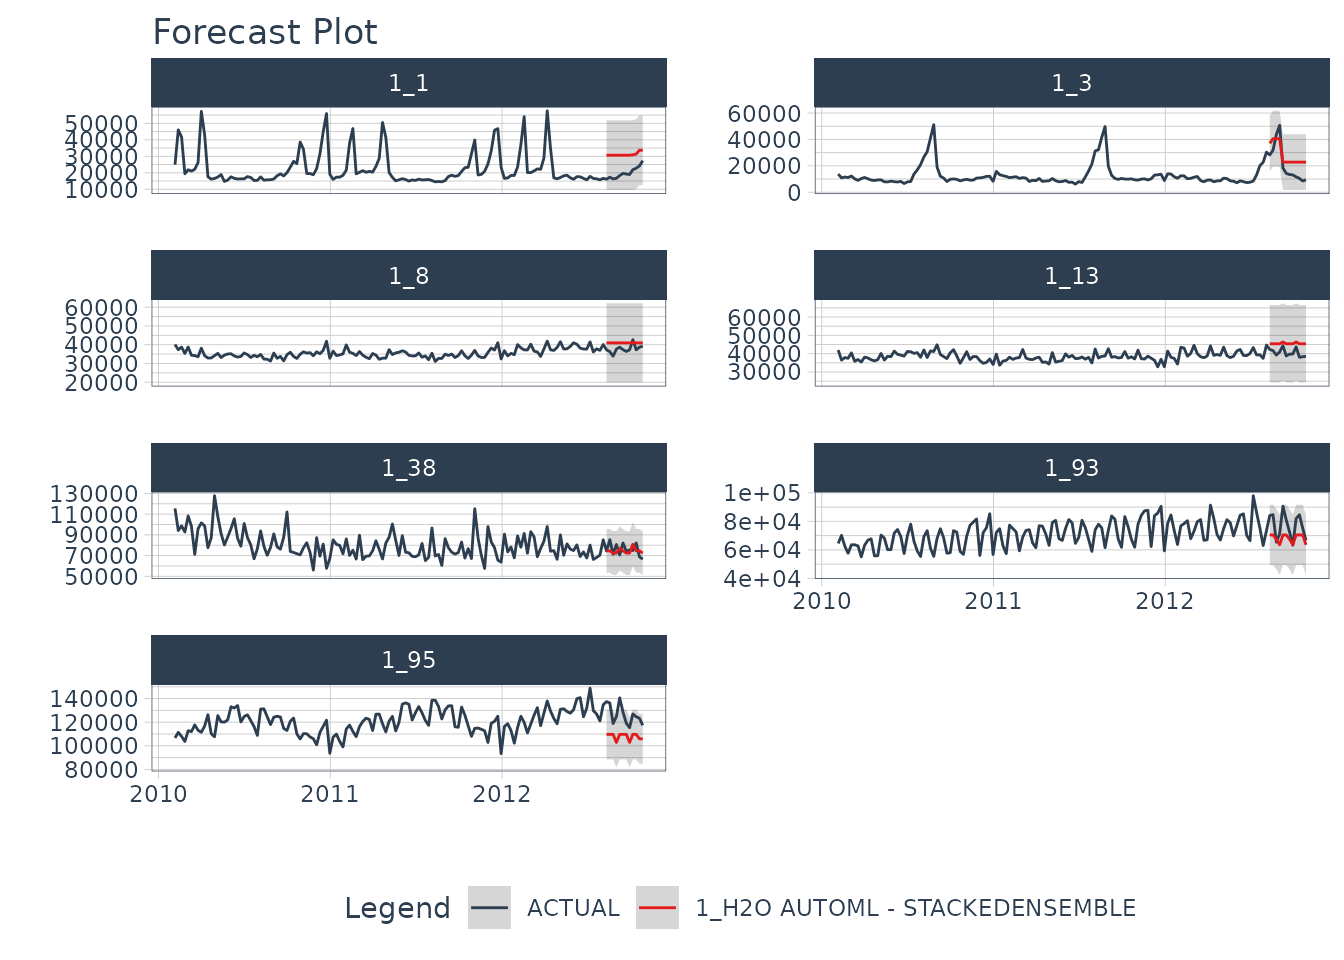
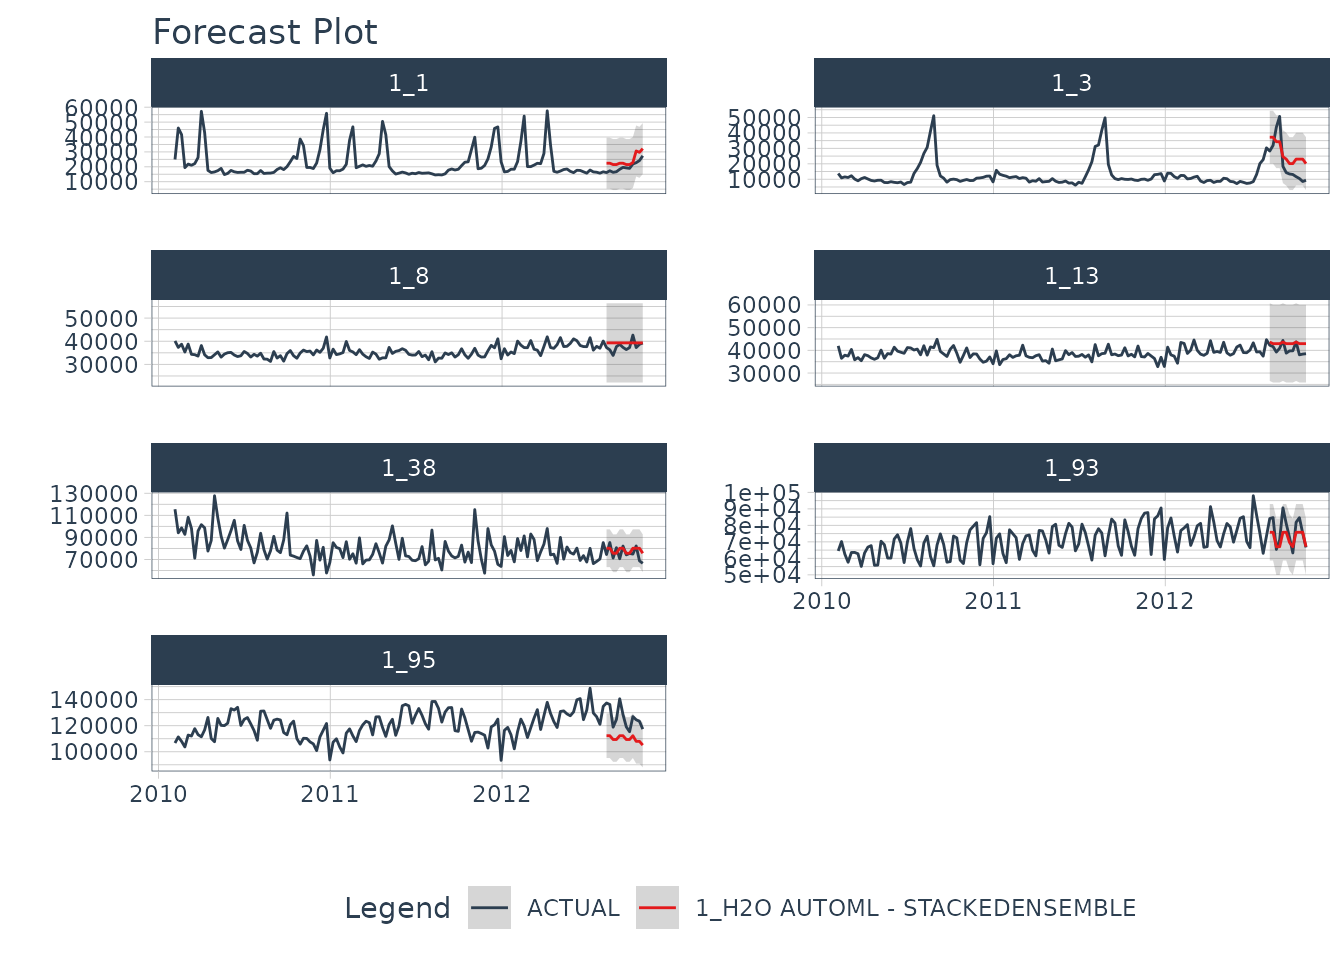
Built site for modeltime.h2o: 0.1.1@fb55a96

diff --git a/articles/getting-started.html b/articles/getting-started.html
@@ -223,19 +223,19 @@
 <span class="co">#&gt; H2O is not running yet, starting it now...</span>
 <span class="co">#&gt; </span>
 <span class="co">#&gt; Note:  In case of errors look at the following log files:</span>
-<span class="co">#&gt;     /tmp/Rtmp6q7Q00/file4d09ad7219a/h2o_runner_started_from_r.out</span>
-<span class="co">#&gt;     /tmp/Rtmp6q7Q00/file4d099e362c/h2o_runner_started_from_r.err</span>
+<span class="co">#&gt;     /tmp/RtmpF29Jn0/file4d663d42d80c/h2o_runner_started_from_r.out</span>
+<span class="co">#&gt;     /tmp/RtmpF29Jn0/file4d6668674c85/h2o_runner_started_from_r.err</span>
 <span class="co">#&gt; </span>
 <span class="co">#&gt; </span>
-<span class="co">#&gt; Starting H2O JVM and connecting: .... Connection successful!</span>
+<span class="co">#&gt; Starting H2O JVM and connecting: ... Connection successful!</span>
 <span class="co">#&gt; </span>
 <span class="co">#&gt; R is connected to the H2O cluster: </span>
-<span class="co">#&gt;     H2O cluster uptime:         4 seconds 137 milliseconds </span>
+<span class="co">#&gt;     H2O cluster uptime:         2 seconds 330 milliseconds </span>
 <span class="co">#&gt;     H2O cluster timezone:       UTC </span>
 <span class="co">#&gt;     H2O data parsing timezone:  UTC </span>
 <span class="co">#&gt;     H2O cluster version:        3.32.0.1 </span>
 <span class="co">#&gt;     H2O cluster version age:    5 months and 22 days !!! </span>
-<span class="co">#&gt;     H2O cluster name:           H2O_started_from_R_runner_oos431 </span>
+<span class="co">#&gt;     H2O cluster name:           H2O_started_from_R_runner_qpy763 </span>
 <span class="co">#&gt;     H2O cluster total nodes:    1 </span>
 <span class="co">#&gt;     H2O cluster total memory:   1.51 GB </span>
 <span class="co">#&gt;     H2O cluster total cores:    2 </span>
@@ -282,22 +282,22 @@
 <code class="sourceCode R"><span class="va">model_fitted</span> <span class="op">&lt;-</span> <span class="va">model_spec</span> <span class="op">%&gt;%</span>
     <span class="fu">fit</span><span class="op">(</span><span class="va">Weekly_Sales</span> <span class="op">~</span> <span class="va">.</span>, data <span class="op">=</span> <span class="va">train_tbl</span><span class="op">)</span>
 <span class="co">#&gt;                                           model_id mean_residual_deviance</span>
-<span class="co">#&gt; 1 StackedEnsemble_AllModels_AutoML_20210330_183325              386740569</span>
-<span class="co">#&gt; 2                 XGBoost_3_AutoML_20210330_183325              609399256</span>
-<span class="co">#&gt; 3                 XGBoost_2_AutoML_20210330_183325             1135899201</span>
-<span class="co">#&gt; 4                 XGBoost_1_AutoML_20210330_183325             1817098993</span>
+<span class="co">#&gt; 1 StackedEnsemble_AllModels_AutoML_20210330_183449              249288132</span>
+<span class="co">#&gt; 2                 XGBoost_2_AutoML_20210330_183449              614272015</span>
+<span class="co">#&gt; 3                 XGBoost_3_AutoML_20210330_183449             1246976647</span>
+<span class="co">#&gt; 4                 XGBoost_1_AutoML_20210330_183449             1429310344</span>
 <span class="co">#&gt;       rmse        mse      mae     rmsle</span>
-<span class="co">#&gt; 1 19665.72  386740569 14321.26 0.4412304</span>
-<span class="co">#&gt; 2 24686.01  609399256 15436.86 0.5867042</span>
-<span class="co">#&gt; 3 33703.10 1135899201 23433.98 0.8419708</span>
-<span class="co">#&gt; 4 42627.44 1817098993 32178.74 1.1009060</span>
+<span class="co">#&gt; 1 15788.86  249288132 11390.52 0.3043166</span>
+<span class="co">#&gt; 2 24784.51  614272015 15970.54 0.5982804</span>
+<span class="co">#&gt; 3 35312.56 1246976647 25998.61 0.8544543</span>
+<span class="co">#&gt; 4 37806.22 1429310344 27278.82 0.9643597</span>
 <span class="co">#&gt; </span>
 <span class="co">#&gt; [4 rows x 6 columns]</span>
 
 <span class="va">model_fitted</span>
 <span class="co">#&gt; parsnip model object</span>
 <span class="co">#&gt; </span>
-<span class="co">#&gt; Fit time:  14.1s </span>
+<span class="co">#&gt; Fit time:  13.9s </span>
 <span class="co">#&gt; </span>
 <span class="co">#&gt; H2O AutoML - Stackedensemble</span>
 <span class="co">#&gt; --------</span>
@@ -305,7 +305,7 @@
 <span class="co">#&gt; ==============</span>
 <span class="co">#&gt; </span>
 <span class="co">#&gt; H2ORegressionModel: stackedensemble</span>
-<span class="co">#&gt; Model ID:  StackedEnsemble_AllModels_AutoML_20210330_183325 </span>
+<span class="co">#&gt; Model ID:  StackedEnsemble_AllModels_AutoML_20210330_183449 </span>
 <span class="co">#&gt; Number of Base Models: 3</span>
 <span class="co">#&gt; </span>
 <span class="co">#&gt; Base Models (count by algorithm type):</span>
@@ -326,11 +326,11 @@
 <span class="co">#&gt; H2ORegressionMetrics: stackedensemble</span>
 <span class="co">#&gt; ** Reported on training data. **</span>
 <span class="co">#&gt; </span>
-<span class="co">#&gt; MSE:  116717267</span>
-<span class="co">#&gt; RMSE:  10803.58</span>
-<span class="co">#&gt; MAE:  9098.072</span>
-<span class="co">#&gt; RMSLE:  0.3760839</span>
-<span class="co">#&gt; Mean Residual Deviance :  116717267</span>
+<span class="co">#&gt; MSE:  91532255</span>
+<span class="co">#&gt; RMSE:  9567.249</span>
+<span class="co">#&gt; MAE:  7753.032</span>
+<span class="co">#&gt; RMSLE:  0.3290695</span>
+<span class="co">#&gt; Mean Residual Deviance :  91532255</span>
 <span class="co">#&gt; </span>
 <span class="co">#&gt; </span>
 <span class="co">#&gt; </span>
@@ -338,21 +338,21 @@
 <span class="co">#&gt; ** Reported on cross-validation data. **</span>
 <span class="co">#&gt; ** 5-fold cross-validation on training data (Metrics computed for combined holdout predictions) **</span>
 <span class="co">#&gt; </span>
-<span class="co">#&gt; MSE:  386740569</span>
-<span class="co">#&gt; RMSE:  19665.72</span>
-<span class="co">#&gt; MAE:  14321.26</span>
-<span class="co">#&gt; RMSLE:  0.4412304</span>
-<span class="co">#&gt; Mean Residual Deviance :  386740569</span></code></pre></div>
+<span class="co">#&gt; MSE:  249288132</span>
+<span class="co">#&gt; RMSE:  15788.86</span>
+<span class="co">#&gt; MAE:  11390.52</span>
+<span class="co">#&gt; RMSLE:  0.3043166</span>
+<span class="co">#&gt; Mean Residual Deviance :  249288132</span></code></pre></div>
 <p>The best models are stored in the <code>leaderbord</code> and by default the one with the best metric with which you have decided to sort the leaderbord is selected (this behavior can be controlled with the <code>sort_metric</code> parameter passed through set_engine. For more information see ?h2o.automl. By default, it is sorted by the mean_residual_deviance). To list the models created during training that have finally been stored in the leaderbord you can use the <code>automl_leaderbord</code> function as follows:</p>
 <div class="sourceCode" id="cb7"><pre class="downlit sourceCode r">
 <code class="sourceCode R"><span class="fu"><a href="../reference/automl_leaderboard.html">automl_leaderboard</a></span><span class="op">(</span><span class="va">model_fitted</span><span class="op">)</span>
 <span class="co">#&gt; # A tibble: 4 x 6</span>
 <span class="co">#&gt;   model_id                      mean_residual_devi…   rmse      mse    mae rmsle</span>
 <span class="co">#&gt;   &lt;chr&gt;                                       &lt;dbl&gt;  &lt;dbl&gt;    &lt;dbl&gt;  &lt;dbl&gt; &lt;dbl&gt;</span>
-<span class="co">#&gt; 1 StackedEnsemble_AllModels_Au…          386740569. 19666.   3.87e8 14321. 0.441</span>
-<span class="co">#&gt; 2 XGBoost_3_AutoML_20210330_18…          609399256. 24686.   6.09e8 15437. 0.587</span>
-<span class="co">#&gt; 3 XGBoost_2_AutoML_20210330_18…         1135899201. 33703.   1.14e9 23434. 0.842</span>
-<span class="co">#&gt; 4 XGBoost_1_AutoML_20210330_18…         1817098993. 42627.   1.82e9 32179. 1.10</span></code></pre></div>
+<span class="co">#&gt; 1 StackedEnsemble_AllModels_Au…          249288132. 15789.   2.49e8 11391. 0.304</span>
+<span class="co">#&gt; 2 XGBoost_2_AutoML_20210330_18…          614272015. 24785.   6.14e8 15971. 0.598</span>
+<span class="co">#&gt; 3 XGBoost_3_AutoML_20210330_18…         1246976647. 35313.   1.25e9 25999. 0.854</span>
+<span class="co">#&gt; 4 XGBoost_1_AutoML_20210330_18…         1429310344. 37806.   1.43e9 27279. 0.964</span></code></pre></div>
 <p>To change the default selected model (remember, the first one sorted according to the selected metric) you can do it with the <code><a href="../reference/automl_leaderboard.html">automl_update_model()</a></code> function as follows (do not run the following example as the model id name will have changed as there is randomness in the process):</p>
 <div class="sourceCode" id="cb8"><pre class="downlit sourceCode r">
 <code class="sourceCode R"><span class="fu"><a href="../reference/automl_leaderboard.html">automl_update_model</a></span><span class="op">(</span><span class="va">model_fitted</span>, model_id <span class="op">=</span> <span class="st">"StackedEnsemble_AllModels_AutoML_20210319_204825"</span><span class="op">)</span></code></pre></div>
@@ -362,16 +362,16 @@
 <span class="co">#&gt; # A tibble: 84 x 1</span>
 <span class="co">#&gt;      .pred</span>
 <span class="co">#&gt;      &lt;dbl&gt;</span>
-<span class="co">#&gt;  1  30676.</span>
-<span class="co">#&gt;  2  36963.</span>
-<span class="co">#&gt;  3  40974.</span>
-<span class="co">#&gt;  4  45389.</span>
-<span class="co">#&gt;  5  74563.</span>
-<span class="co">#&gt;  6  70482.</span>
-<span class="co">#&gt;  7 109705.</span>
-<span class="co">#&gt;  8  30676.</span>
-<span class="co">#&gt;  9  40536.</span>
-<span class="co">#&gt; 10  40974.</span>
+<span class="co">#&gt;  1  22408.</span>
+<span class="co">#&gt;  2  37209.</span>
+<span class="co">#&gt;  3  39293.</span>
+<span class="co">#&gt;  4  43628.</span>
+<span class="co">#&gt;  5  80186.</span>
+<span class="co">#&gt;  6  75810.</span>
+<span class="co">#&gt;  7 112296.</span>
+<span class="co">#&gt;  8  22408.</span>
+<span class="co">#&gt;  9  37209.</span>
+<span class="co">#&gt; 10  39293.</span>
 <span class="co">#&gt; # … with 74 more rows</span></code></pre></div>
 </div>
 <div id="modeltime-workflow" class="section level2">
@@ -438,10 +438,10 @@
 <code class="sourceCode R"><span class="va">refit_tbl</span> <span class="op">&lt;-</span> <span class="va">modeltime_tbl</span> <span class="op">%&gt;%</span>
     <span class="fu">modeltime_refit</span><span class="op">(</span><span class="va">data_prepared_tbl</span><span class="op">)</span>
 <span class="co">#&gt;                                           model_id mean_residual_deviance</span>
-<span class="co">#&gt; 1 StackedEnsemble_AllModels_AutoML_20210330_183343               87547703</span>
-<span class="co">#&gt; 2                 XGBoost_3_AutoML_20210330_183343             2198195829</span>
-<span class="co">#&gt; 3                 XGBoost_2_AutoML_20210330_183343             2202249547</span>
-<span class="co">#&gt; 4                 XGBoost_1_AutoML_20210330_183343             2261584439</span>
+<span class="co">#&gt; 1 StackedEnsemble_AllModels_AutoML_20210330_183508               87547703</span>
+<span class="co">#&gt; 2                 XGBoost_3_AutoML_20210330_183508             2198195829</span>
+<span class="co">#&gt; 3                 XGBoost_2_AutoML_20210330_183508             2202249547</span>
+<span class="co">#&gt; 4                 XGBoost_1_AutoML_20210330_183508             2261584439</span>
 <span class="co">#&gt;        rmse        mse       mae     rmsle</span>
 <span class="co">#&gt; 1  9356.693   87547703  6990.738 0.2292359</span>
 <span class="co">#&gt; 2 46884.921 2198195829 38428.029 1.2153485</span>
